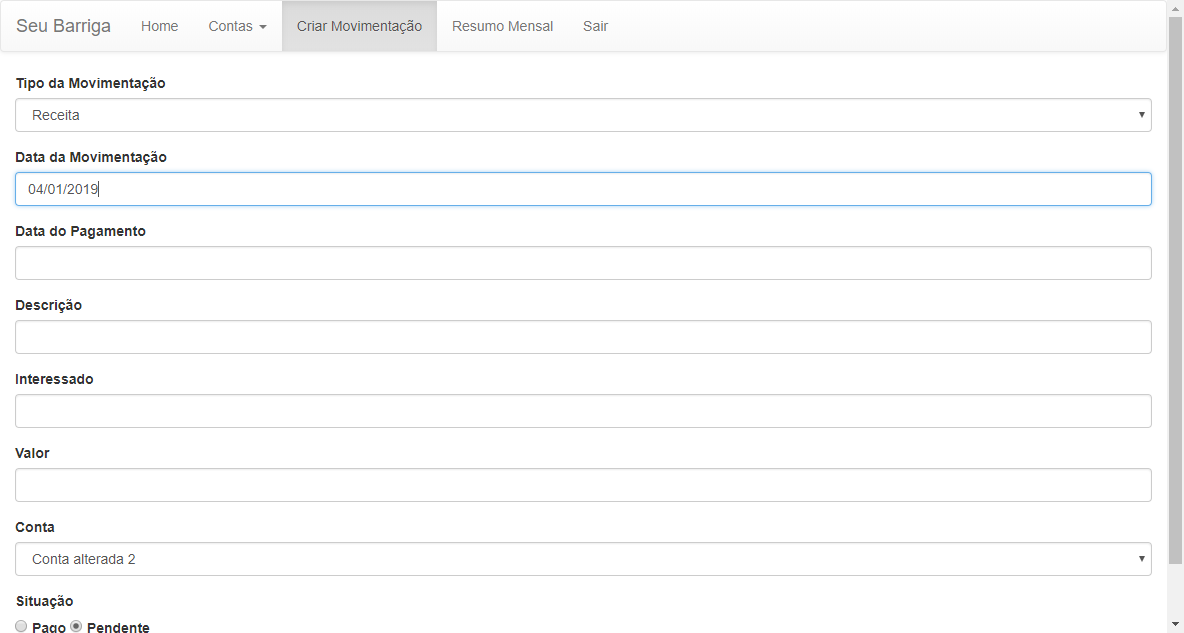
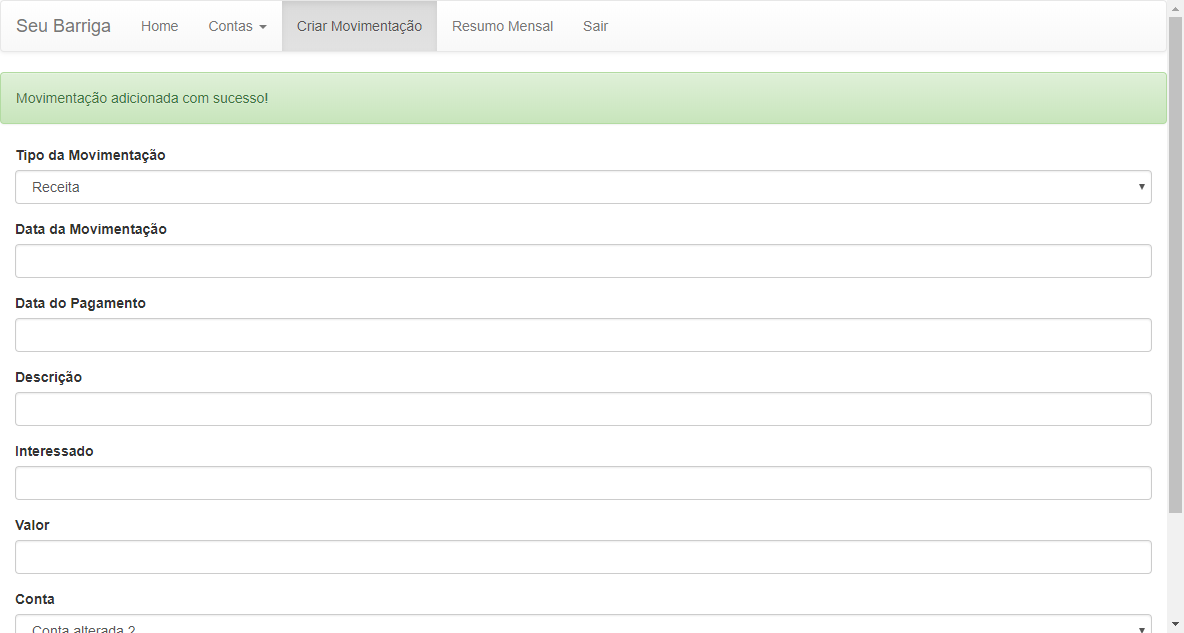
teste movimentações

diff --git a/src/main/java/br/ce/wcaquino/pages/MovimentacaoPage.java b/src/main/java/br/ce/wcaquino/pages/MovimentacaoPage.java
@@ -6,30 +6,43 @@ import br.ce.wcaquino.core.BasePage;
 
 public class MovimentacaoPage extends BasePage {
 
-	public void inserirDataMovimentacao(String data) {
+	public void setDataMovimentacao(String data) {
 		escrever("data_transacao", data);
 	}
 
-	public void inserirDataPagamento(String data) {
-		escrever("data_transacao", data);
+	public void setDataPagamento(String data) {
+		escrever("data_pagamento", data);
 	}
 
 	public void Salvar() {
 		clicarBotao(By.xpath("//button[@type='submit']"));
 	}
 
-	public void inserirDescricao(String descricao) {
+	public void setDescricao(String descricao) {
 		escrever("descricao", descricao);
 		
 	}
 
-	public void inserirInteressado(String interessado) {
-		escrever("descricao", interessado);
+	public void setInteressado(String interessado) {
+		escrever("interessado", interessado);
 		
 	}
 
-	public void inserirValor( String valor) {
+	public void setValor( String valor) {
+		escrever("valor", valor);
 		
+	}
+
+	public void setConta(String conta) {
+		selecionarCombo("conta", conta);
 		
+	}
+
+	public void setSituacao() {
+		clicarRadio("status_pago");
+				
+	}
+	public String obterMensagemSucesso() {		
+		return obterTexto(By.xpath("//div[@class='alert alert-success']"));
 	}
 }

diff --git a/src/main/java/br/ce/wcaquino/core/BasePage.java b/src/main/java/br/ce/wcaquino/core/BasePage.java
@@ -21,6 +21,7 @@ public class BasePage {
 		getDriver().findElement(by).clear();
 		getDriver().findElement(by).sendKeys(texto);
 	}
+	
 
 	public void escrever(String id_campo, String texto){
 		escrever(By.id(id_campo), texto);
